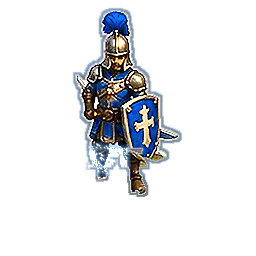
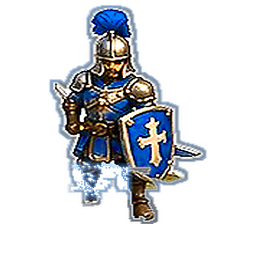
fix(art): enlarge infantry silhouette footprint

Changed region(s): [[0.1875, 0.0, 0.8125, 0.875]]

diff --git a/tests/external-unit-assets.test.ts b/tests/external-unit-assets.test.ts
@@ -86,6 +86,23 @@ function alphaAt(png: DecodedPng, x: number, y: number): number {
   return png.pixels[(y * png.width + x) * 4 + 3];
 }
 
+function opaqueBounds(png: DecodedPng): { width: number; height: number } {
+  let minX = png.width;
+  let minY = png.height;
+  let maxX = -1;
+  let maxY = -1;
+  for (let y = 0; y < png.height; y++) {
+    for (let x = 0; x < png.width; x++) {
+      if (alphaAt(png, x, y) < 64) continue;
+      minX = Math.min(minX, x);
+      minY = Math.min(minY, y);
+      maxX = Math.max(maxX, x);
+      maxY = Math.max(maxY, y);
+    }
+  }
+  return { width: maxX - minX + 1, height: maxY - minY + 1 };
+}
+
 function averageOpaqueLuminance(png: DecodedPng): number {
   let total = 0;
   let count = 0;
@@ -133,6 +150,9 @@ describe('Phase 2A 외부 보병 에셋', () => {
       expect(alphaAt(png, png.width - 1, 0)).toBe(0);
       expect(alphaAt(png, 0, png.height - 1)).toBe(0);
       expect(alphaAt(png, png.width - 1, png.height - 1)).toBe(0);
+      const bounds = opaqueBounds(png);
+      expect(bounds.width, `${url} opaque width`).toBeGreaterThanOrEqual(150);
+      expect(bounds.height, `${url} opaque height`).toBeGreaterThanOrEqual(210);
     }
   });
 
